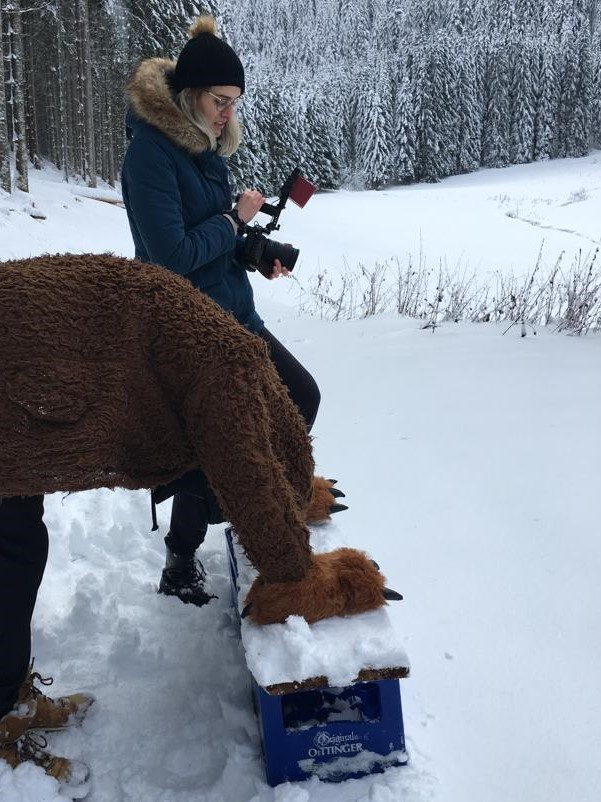
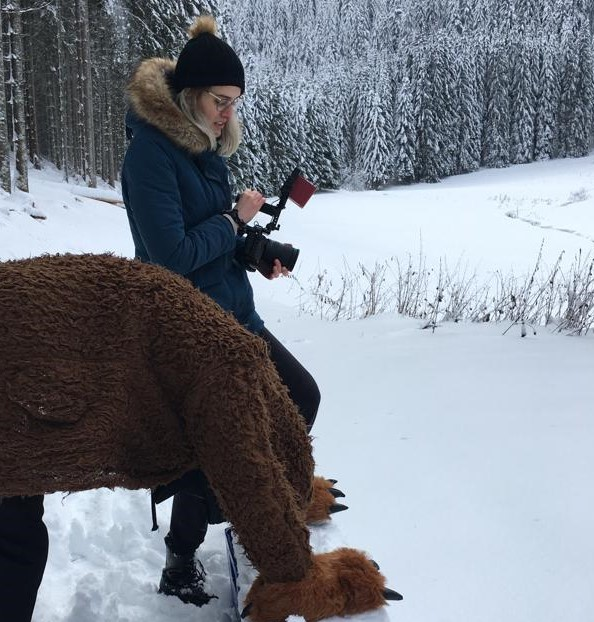
,

diff --git a/Konzeption/prototyp.html b/Konzeption/prototyp.html
@@ -80,8 +80,8 @@
                         aufnehmen müssen.
                     </p>
                     <br> <br> <br> <br> <br> <br> <br> <br> 
-                    <img
-                        src="https://raw.githubusercontent.com/fionavi/EIA2-WS-21-22/main/Konzeption/media/bts2.PNG">
+                    <img id="bts"
+                        src="https://raw.githubusercontent.com/fionavi/EIA2-WS-21-22/main/Konzeption/media/bts2.jpeg">
 
                     <p class="textfield">
                         Am Drehtag selbst begaben wir uns um 8:00 Uhr morgens in den Wald, bauten unser Lager auf und

diff --git a/Konzeption/dokumentation.css b/Konzeption/dokumentation.css
@@ -132,6 +132,12 @@ margin: 20px;
   height: 500px;
   width: 375px;
 }
+
+#bts{
+  margin-left: 25%;
+  height: 500px;
+  width: 375px;
+}
 .column img {
   margin-top: 8px;
   margin-left: 8px;
